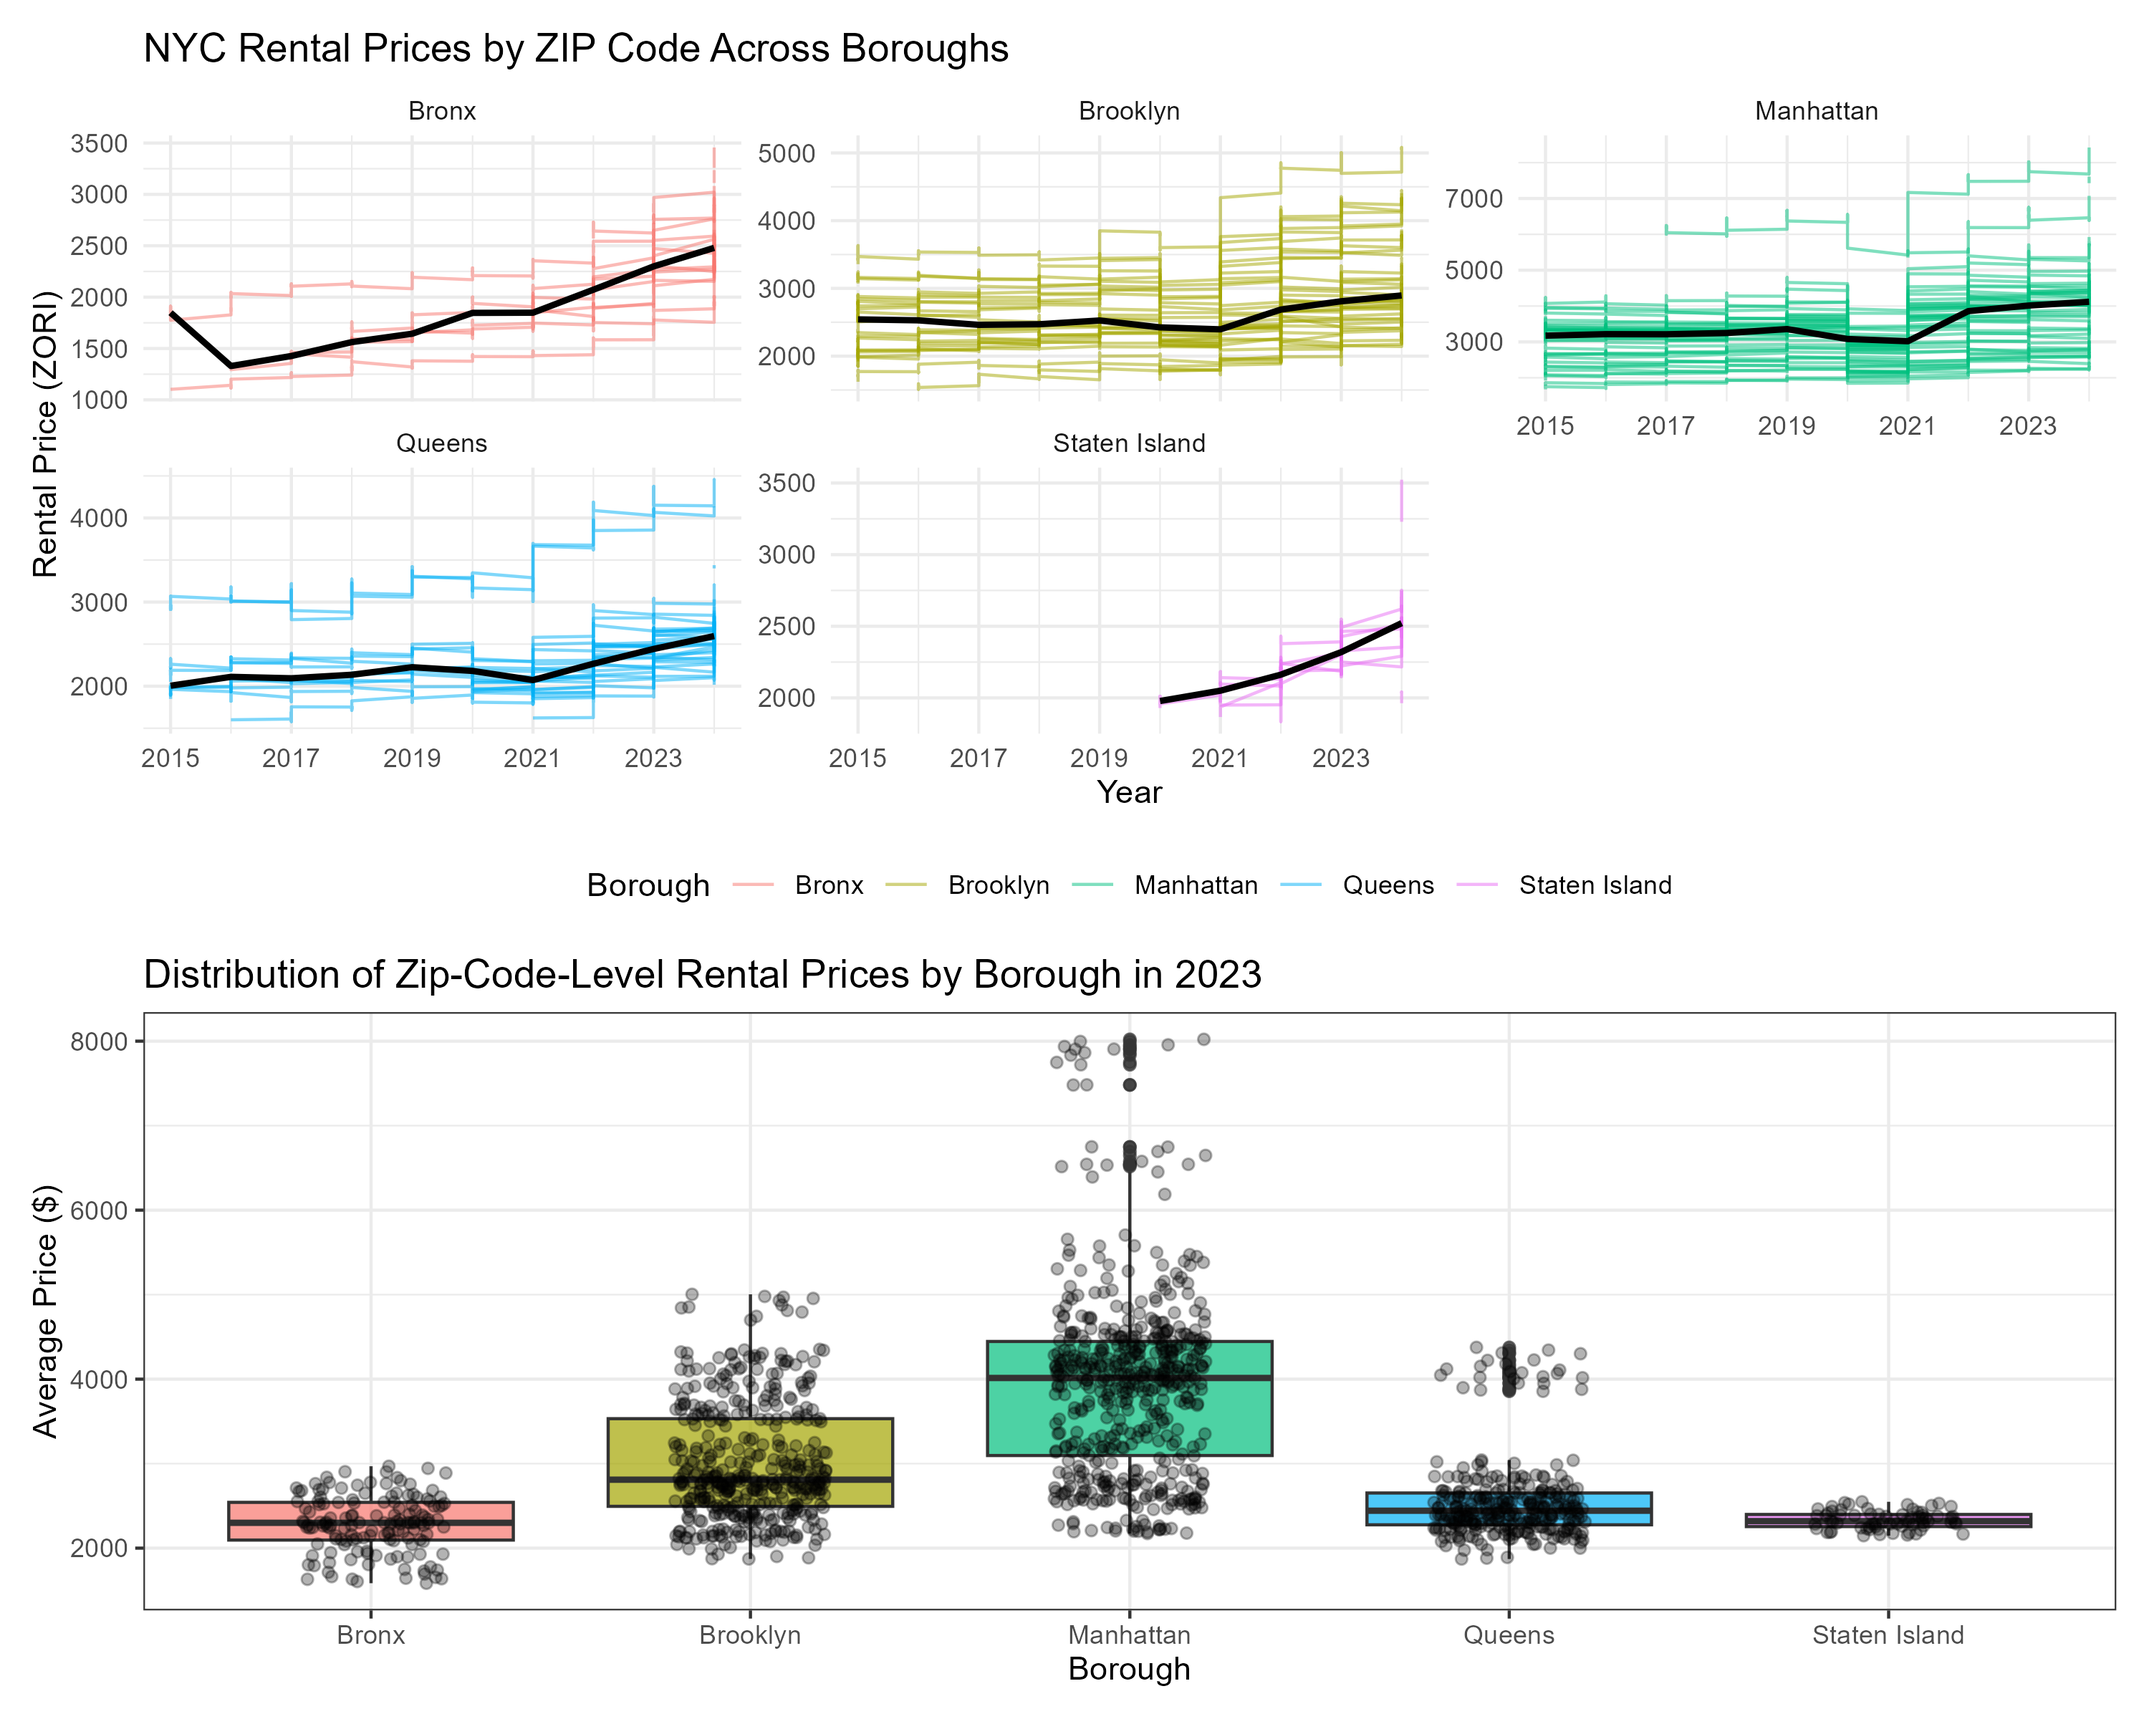
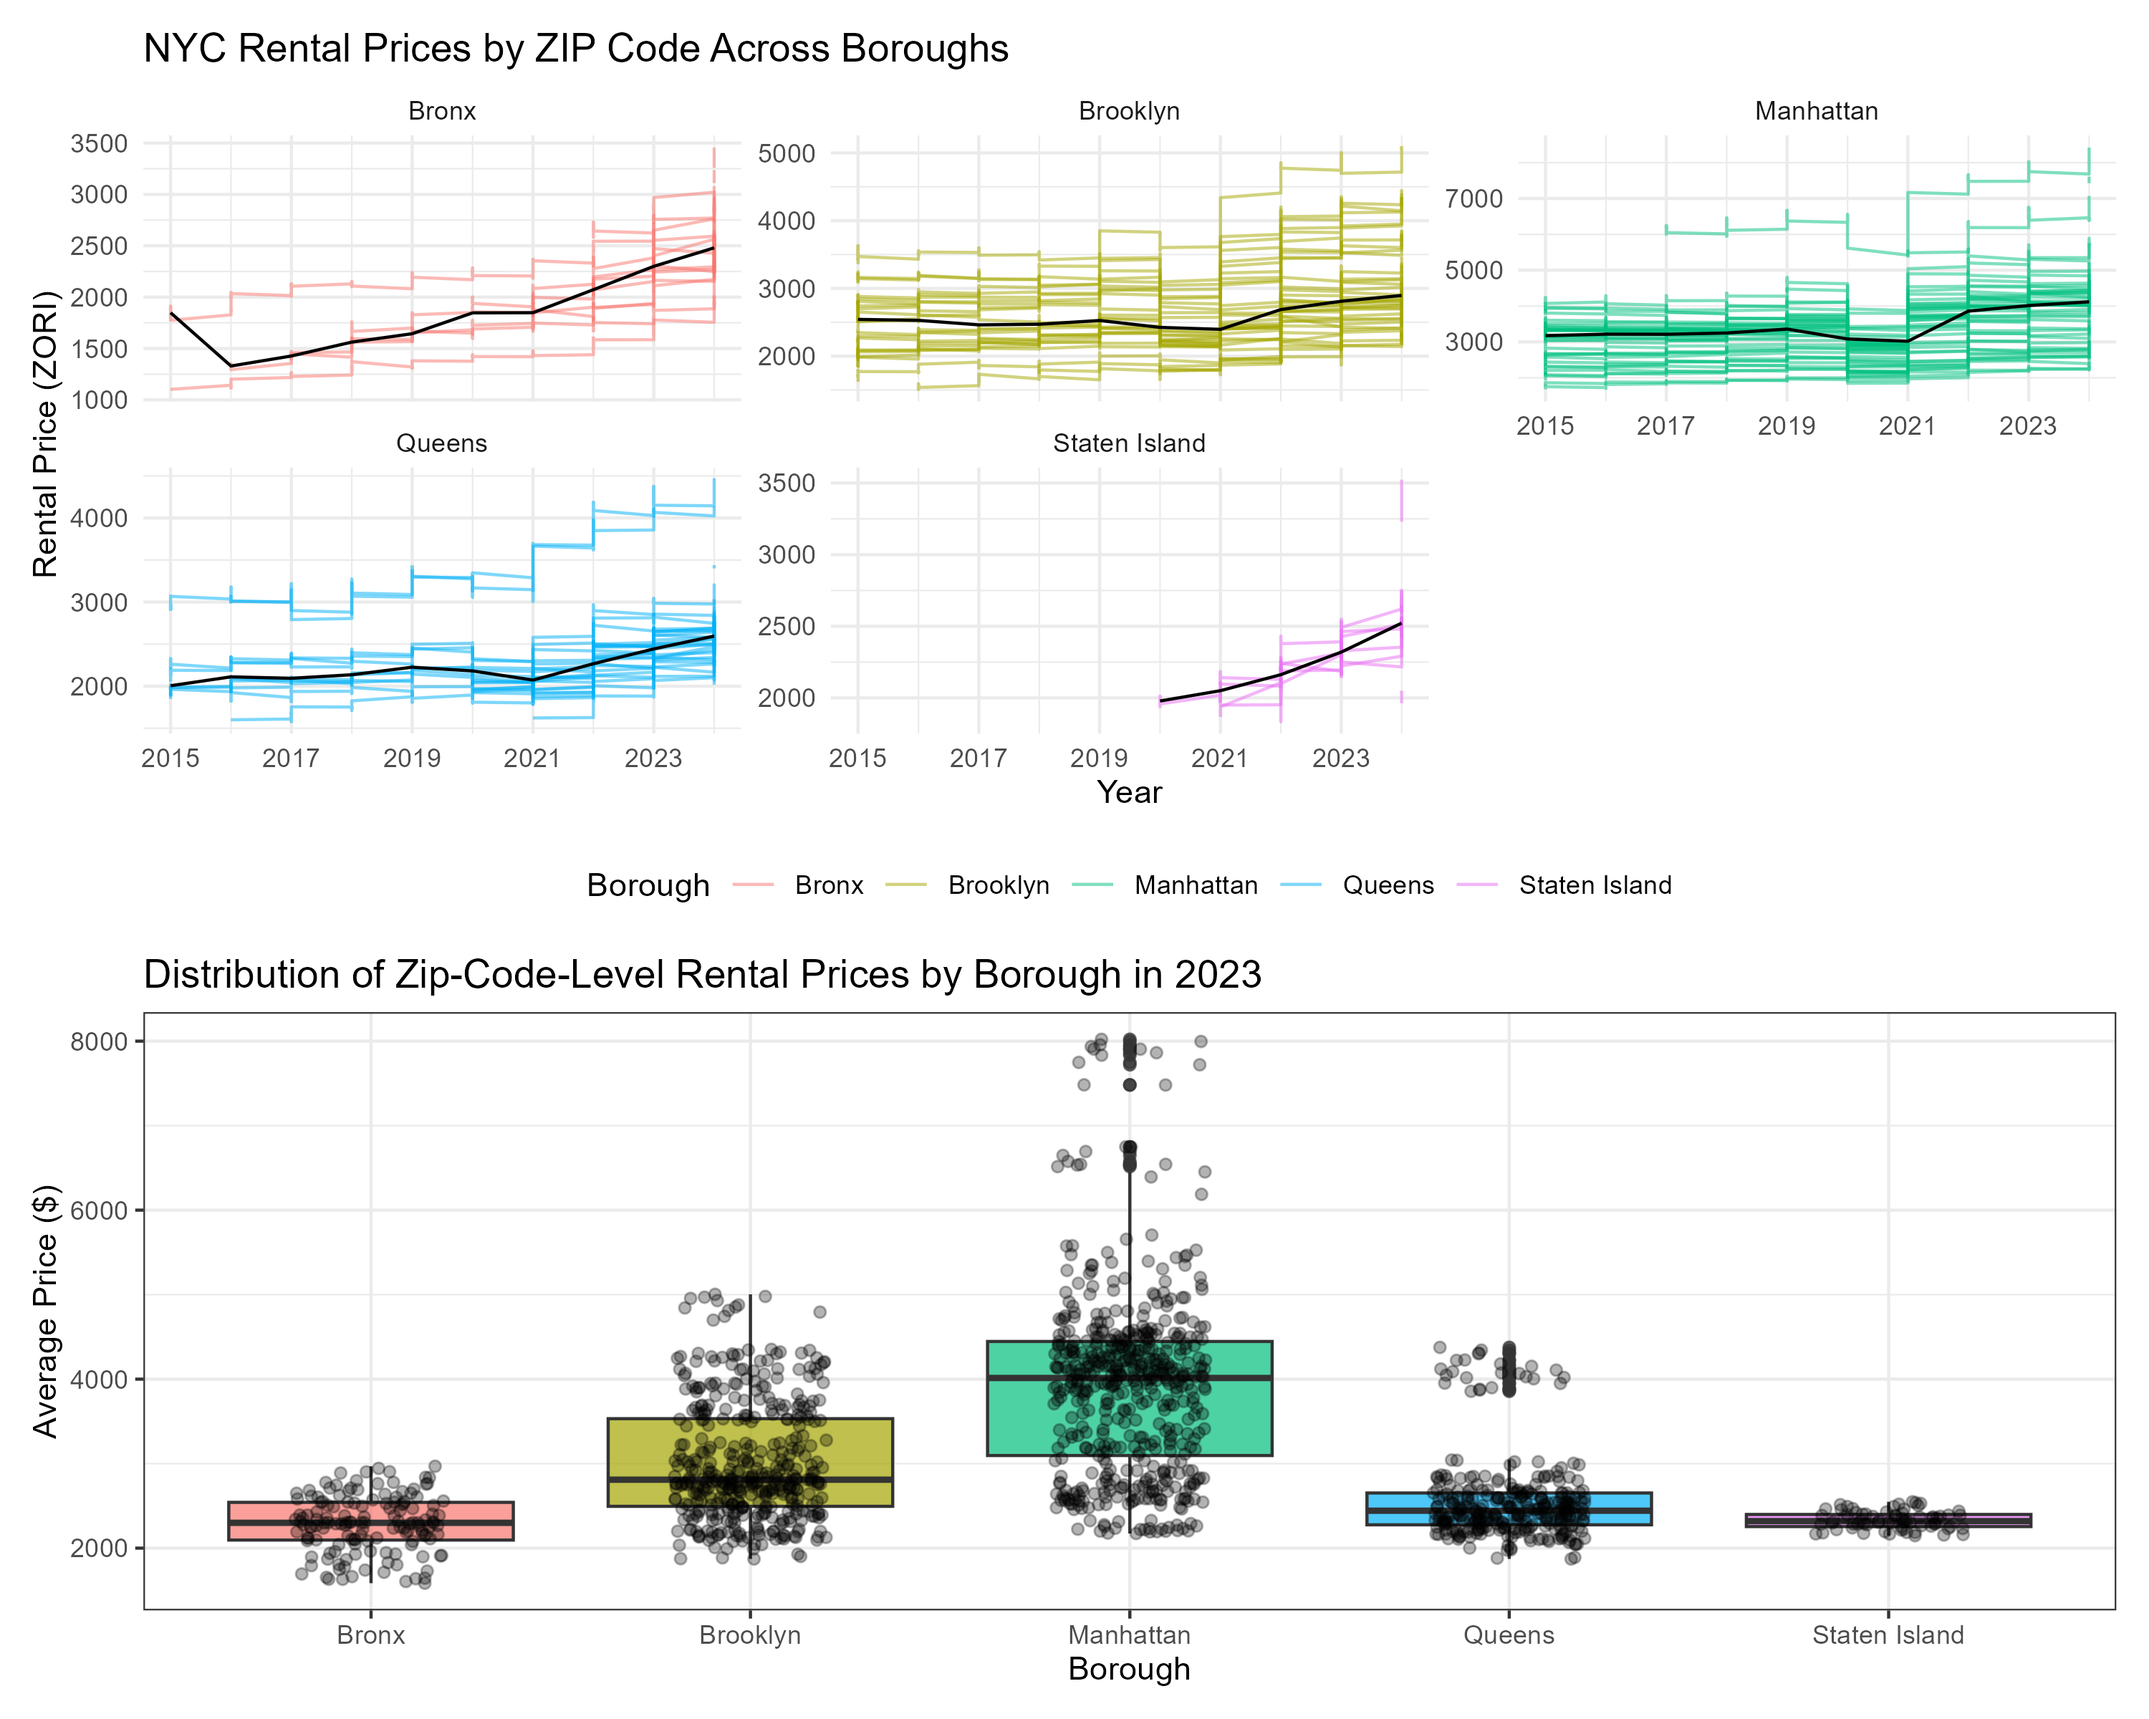
Removed warnings + meassage

diff --git a/p8105_hw3_mb5357.md b/p8105_hw3_mb5357.md
@@ -250,7 +250,8 @@ borough_year_table <- combined_df |>
   mutate(year = year(date)) |> 
   group_by(borough, year) |> 
   
-   summarize(avg_rent = mean(zori, na.rm = TRUE)) |>
+   summarize(avg_rent = mean(zori, na.rm = TRUE), 
+                             .groups = "drop") |>
  
    arrange(borough, year, avg_rent) |>
  
@@ -258,12 +259,7 @@ borough_year_table <- combined_df |>
     names_from = borough,
     values_from = avg_rent
   )
-```
 
-    ## `summarise()` has grouped output by 'borough'. You can override using the
-    ## `.groups` argument.
-
-``` r
 borough_year_table |> 
   kable()
 ```
@@ -307,8 +303,7 @@ plot_1 <- combined_df |>
   stat_summary(aes(group = borough),              
                fun = median, 
                geom = "line", 
-               color = "black", 
-               size = 1) +
+               color = "black") +
   
   facet_wrap(~ borough, scales = "free_y") +     
   
@@ -323,15 +318,7 @@ plot_1 <- combined_df |>
   ) +
   theme_minimal() +
   theme(legend.position = "bottom")
-```
 
-    ## Warning: Using `size` aesthetic for lines was deprecated in ggplot2 3.4.0.
-    ## ℹ Please use `linewidth` instead.
-    ## This warning is displayed once every 8 hours.
-    ## Call `lifecycle::last_lifecycle_warnings()` to see where this warning was
-    ## generated.
-
-``` r
 plot_1
 ```
 
@@ -365,8 +352,7 @@ plot_2 <- combined_df |>
   
   geom_boxplot(alpha = 0.7) +   
   geom_jitter(width = 0.2, 
-              alpha = 0.3, 
-              linewidth = 1) + 
+              alpha = 0.3) + 
     labs(
     title = "Distribution of Zip-Code-Level Rental Prices by Borough in 2023",
     x = "Borough",
@@ -375,12 +361,8 @@ plot_2 <- combined_df |>
   ) +
   theme_bw() +
   theme(legend.position = "none")
-```
 
-    ## Warning in geom_jitter(width = 0.2, alpha = 0.3, linewidth = 1): Ignoring
-    ## unknown parameters: `linewidth`
 
-``` r
 plot_2
 ```
 
